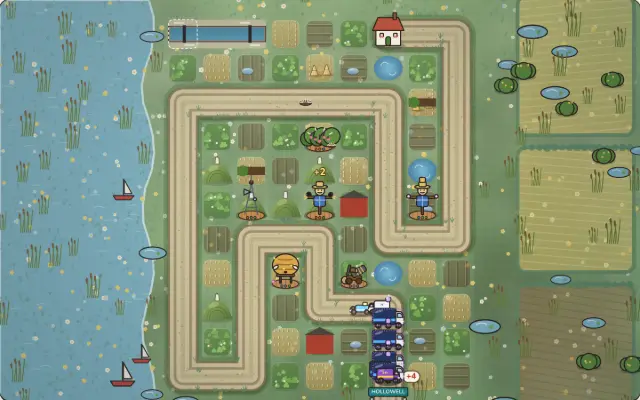
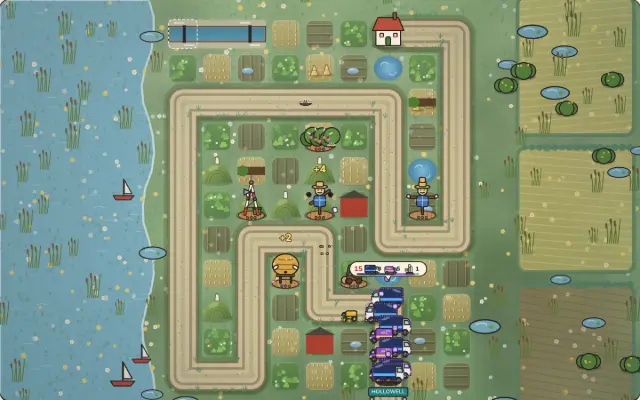
Hedgerow (plan item 163, done): the whole tower rack painted
Windmill, Radio Mast and Grain Silo gain colour on the field and in every
icon; tower icons shrink about their ground point to sit whole; desktop rack
names 13 px; an unaffordable card keeps a desaturated portrait and a red
price. e2e-site/hedgerow-rack.spec.ts; key art re-shot.

Claude-Session: https://claude.ai/code/session_01SimvMQd5hX7KYBZS7Ydo6o

diff --git a/games/hedgerow/src/sprites.ts b/games/hedgerow/src/sprites.ts
@@ -507,8 +507,20 @@ function drawTowerBody(ctx: C, look: TowerLook, x: number, y: number, s: number,
     }
     case "silo": {
       const w = spec === 1 ? 0.24 : 0.18;
-      const body = spec === 0 ? "#6f9a4a" : "#c7ccd1";
+      // Plan item 163: the plain silo is cream-painted with a terracotta dome and a red band (it was all grey).
+      const body = spec === 0 ? "#6f9a4a" : spec === 1 ? "#c7ccd1" : "#eadcb8";
       rr(ctx, x - s * w, base - s * 0.72, s * w * 2, s * 0.72, s * 0.04, body);
+      if (spec !== 0) {
+        rr(ctx, x - s * w, base - s * 0.6, s * w * 2, s * 0.1, 0, "#c2553a");
+        ctx.fillStyle = "#f6efe0";
+        ctx.beginPath();
+        ctx.moveTo(x, base - s * 0.59);
+        ctx.lineTo(x + s * 0.04, base - s * 0.55);
+        ctx.lineTo(x, base - s * 0.51);
+        ctx.lineTo(x - s * 0.04, base - s * 0.55);
+        ctx.closePath();
+        ctx.fill();
+      }
       ctx.strokeStyle = "rgba(0,0,0,0.18)";
       for (let i = 1; i < 5; i++) {
         ctx.beginPath();
@@ -517,7 +529,7 @@ function drawTowerBody(ctx: C, look: TowerLook, x: number, y: number, s: number,
         ctx.stroke();
       }
       ctx.strokeStyle = INK;
-      ctx.fillStyle = spec === 0 ? "#557a36" : "#9ea6ad";
+      ctx.fillStyle = spec === 0 ? "#557a36" : "#b84a33";
       ctx.beginPath();
       ctx.arc(x, base - s * 0.72, s * w, Math.PI, 0);
       ctx.closePath();
@@ -528,7 +540,7 @@ function drawTowerBody(ctx: C, look: TowerLook, x: number, y: number, s: number,
       ctx.save();
       ctx.translate(x + s * w, base - s * 0.6);
       ctx.rotate(-0.6 - kick * 0.4);
-      rr(ctx, 0, -s * 0.03, s * 0.2, s * 0.06, s * 0.02, "#8a8f94");
+      rr(ctx, 0, -s * 0.03, s * 0.2, s * 0.06, s * 0.02, "#d9a441");
       ctx.restore();
       break;
     }
@@ -544,8 +556,19 @@ function drawTowerBody(ctx: C, look: TowerLook, x: number, y: number, s: number,
       ctx.closePath();
       ctx.fill();
       ctx.stroke();
-      rr(ctx, x - s * 0.05, base - s * 0.16, s * 0.1, s * 0.16, s * 0.03, "#6b4a2b");
-      ctx.fillStyle = "#5e3d22";
+      // Plan item 163: a brick footing, a blue window, a green door and a red cap (it read as a grey sketch).
+      ctx.fillStyle = "#b5654a";
+      ctx.beginPath();
+      ctx.moveTo(x - s * 0.2, base);
+      ctx.lineTo(x - s * 0.185, base - s * 0.12);
+      ctx.lineTo(x + s * 0.185, base - s * 0.12);
+      ctx.lineTo(x + s * 0.2, base);
+      ctx.closePath();
+      ctx.fill();
+      ctx.stroke();
+      rr(ctx, x - s * 0.05, base - s * 0.18, s * 0.1, s * 0.18, s * 0.03, "#4f7a3a");
+      rr(ctx, x - s * 0.04, base - s * (h * 0.62), s * 0.08, s * 0.09, s * 0.02, "#6b8fb5");
+      ctx.fillStyle = "#a8452f";
       ctx.beginPath();
       ctx.arc(x, base - s * h, s * 0.15, Math.PI, 0);
       ctx.closePath();
@@ -567,8 +590,15 @@ function drawTowerBody(ctx: C, look: TowerLook, x: number, y: number, s: number,
         ctx.save();
         ctx.translate(x, hubY);
         ctx.rotate(a);
-        ctx.fillStyle = spec === 0 ? "#f6efe0" : "rgba(246,239,224,0.8)";
+        ctx.fillStyle = spec === 0 ? "#f6efe0" : spec === 1 ? "rgba(246,239,224,0.8)" : "#ecd5a4";
         ctx.fillRect(s * 0.03, -s * 0.05, len, s * 0.1);
+        // The sail's wooden stock down its middle.
+        ctx.strokeStyle = "#7a4a2a";
+        ctx.beginPath();
+        ctx.moveTo(s * 0.03, 0);
+        ctx.lineTo(s * 0.03 + len, 0);
+        ctx.stroke();
+        ctx.strokeStyle = INK;
         ctx.strokeRect(s * 0.03, -s * 0.05, len, s * 0.1);
         ctx.restore();
       }
@@ -604,21 +634,46 @@ function drawTowerBody(ctx: C, look: TowerLook, x: number, y: number, s: number,
       break;
     }
     case "mast": {
-      ctx.strokeStyle = "#5a5e63";
-      ctx.lineWidth = Math.max(1.5, s * 0.03);
+      // Plan item 163: a red-and-white banded lattice mast over a green equipment hut (it was a grey line drawing).
+      rr(ctx, x + s * 0.06, base - s * 0.16, s * 0.2, s * 0.16, s * 0.02, "#5f8f3f");
+      rr(ctx, x + s * 0.04, base - s * 0.2, s * 0.24, s * 0.05, s * 0.02, "#3f6e33");
+      const legW = Math.max(2.2, s * 0.05);
+      for (let i = 0; i < 4; i++) {
+        const y0 = base - (i * s * 0.85) / 4;
+        const y1 = base - ((i + 1) * s * 0.85) / 4;
+        const w0 = s * 0.18 * (1 - i / 4);
+        const w1 = s * 0.18 * (1 - (i + 1) / 4);
+        ctx.strokeStyle = INK;
+        ctx.lineWidth = legW + lw(s) * 1.2;
+        ctx.beginPath();
+        ctx.moveTo(x - w0, y0);
+        ctx.lineTo(x - w1, y1);
+        ctx.moveTo(x + w0, y0);
+        ctx.lineTo(x + w1, y1);
+        ctx.stroke();
+        ctx.strokeStyle = i % 2 ? "#f6efe0" : "#c8452f";
+        ctx.lineWidth = legW;
+        ctx.stroke();
+      }
+      ctx.strokeStyle = INK;
+      ctx.lineWidth = Math.max(1, s * 0.02);
       ctx.beginPath();
-      ctx.moveTo(x - s * 0.18, base);
-      ctx.lineTo(x, base - s * 0.85);
-      ctx.lineTo(x + s * 0.18, base);
       for (let i = 1; i < 4; i++) {
         const yy = base - i * s * 0.2;
         const w = s * 0.18 * (1 - (i * 0.2) / 0.85);
         ctx.moveTo(x - w, yy);
         ctx.lineTo(x + w, yy);
+        ctx.moveTo(x - w, yy);
+        ctx.lineTo(x + w * 0.75, yy - s * 0.2);
       }
       ctx.stroke();
-      ctx.strokeStyle = INK;
       ctx.lineWidth = lw(s);
+      // A dish on the mast.
+      ctx.fillStyle = "#f6efe0";
+      ctx.beginPath();
+      ctx.ellipse(x - s * 0.1, base - s * 0.55, s * 0.04, s * 0.08, -0.2, 0, Math.PI * 2);
+      ctx.fill();
+      ctx.stroke();
       const blink = Math.sin(t * 4) > 0;
       const lamp = spec === 1 ? (Math.sin(t * 8) > 0 ? "#ff3b30" : "#ffb3ad") : blink ? "#d95f3b" : "#7a2f1f";
       blob(ctx, x, base - s * 0.88, s * 0.05, lamp);

diff --git a/games/hedgerow/src/icons.ts b/games/hedgerow/src/icons.ts
@@ -28,8 +28,52 @@ export function towerIcon(kind: TowerKind, tier = 1, spec: 0 | 1 | null = null, 
   return render(`t:${kind}:${tier}:${spec}:${path?.join("") ?? ""}`, 64, (ctx, size) => {
     // A higher tier stands taller on its plinth (plan item 19): shrink the cell so it still fits the icon.
     const s = (size * 0.95) / (TIER_SCALE[towerTier({ tier, ...(path ? { path } : {}) }) - 1] ?? 1);
-    drawTower(ctx, { kind, tier, spec, fired: 9, dazed: false, ...(path ? { path } : {}) }, size / 2, size * 0.5, s, 0.6);
+    const look = { kind, tier, spec, fired: 9, dazed: false, still: true, ...(path ? { path } : {}) };
+    fitted(ctx, size, size / 2, size * 0.5 + s * 0.3, (c, ox, oy) => drawTower(c, look, ox + size / 2, oy + size * 0.5, s, 0.6));
   });
+}
+
+/**
+ * Plan item 163: tall towers (the Windmill's sails, the Radio Mast, the Grain Silo) drew past the icon's top edge
+ * and lost their heads. The picture is drawn on a sheet with room all round, measured, and shrunk about its
+ * ground point (never enlarged) until its solid parts (faint radio rings left out) sit inside the icon.
+ */
+function fitted(ctx: CanvasRenderingContext2D, size: number, gx: number, gy: number, draw: (c: CanvasRenderingContext2D, ox: number, oy: number) => void): void {
+  const dpr = 2;
+  const pad = size;
+  const sheet = document.createElement("canvas");
+  sheet.width = sheet.height = (size + pad * 2) * dpr;
+  const sc = sheet.getContext("2d", { willReadFrequently: true });
+  if (!sc) {
+    draw(ctx, 0, 0);
+    return;
+  }
+  sc.scale(dpr, dpr);
+  draw(sc, pad, pad);
+  const W = sheet.width;
+  const px = sc.getImageData(0, 0, W, W).data;
+  let x0 = W, y0 = W, x1 = -1, y1 = -1;
+  for (let y = 0; y < W; y++)
+    for (let x = 0; x < W; x++)
+      if (px[(y * W + x) * 4 + 3]! > 150) {
+        if (x < x0) x0 = x;
+        if (x > x1) x1 = x;
+        if (y < y0) y0 = y;
+        if (y > y1) y1 = y;
+      }
+  if (x1 < 0) return;
+  // Sheet px -> icon units, relative to the ground point.
+  const top = y0 / dpr - pad - gy;
+  const left = x0 / dpr - pad - gx;
+  const right = (x1 + 1) / dpr - pad - gx;
+  const bottom = (y1 + 1) / dpr - pad - gy;
+  const room = { top: gy - size * 0.02, left: gx - size * 0.03, right: size * 0.97 - gx, bottom: size * 0.99 - gy };
+  const k = Math.min(1, room.top / Math.max(1e-6, -top), room.left / Math.max(1e-6, -left), room.right / Math.max(1e-6, right), bottom > 0 ? room.bottom / bottom : 1);
+  ctx.save();
+  ctx.translate(gx, gy);
+  ctx.scale(k, k);
+  ctx.drawImage(sheet, -(pad + gx), -(pad + gy), size + pad * 2, size + pad * 2);
+  ctx.restore();
 }
 
 export function enemyIcon(kind: EnemyKind): string {

diff --git a/e2e-site/hedgerow-rack.spec.ts b/e2e-site/hedgerow-rack.spec.ts
@@ -1,0 +1,48 @@
+import { expect, test } from '@playwright/test'
+
+// Plan item 163: every tower in the build rack is a painted portrait (three of them were grey line sketches with
+// their tops cut off by the icon's edge), and the desktop rack's names read at 13 px.
+test('every rack portrait is painted and whole, names 13 px at D', async ({ page }) => {
+  await page.goto('/hedgerow/?2d&sandbox=1&level=21')
+  await page.waitForFunction(() => !!(window as unknown as { hedgerow?: { game(): unknown } }).hedgerow?.game(), null, { timeout: 30_000 })
+  await page.waitForTimeout(600)
+  const cards = await page.evaluate(async () => {
+    const out: { name: string; fills: number; topRow: number; font: number }[] = []
+    for (const b of document.querySelectorAll<HTMLElement>('.tray .tray-tower')) {
+      const im = b.querySelector('img')!
+      await im.decode()
+      const c = document.createElement('canvas')
+      c.width = im.naturalWidth
+      c.height = im.naturalHeight
+      const ctx = c.getContext('2d')!
+      ctx.drawImage(im, 0, 0)
+      const d = ctx.getImageData(0, 0, c.width, c.height).data
+      // Distinct coloured (not grey) fills, 4 bits a channel, among solid pixels, each 2% or more of the picture.
+      const bins = new Map<number, number>()
+      let solid = 0
+      let topRow = 0
+      for (let i = 0; i < d.length; i += 4) {
+        if (d[i + 3]! < 200) continue
+        solid++
+        if (i < c.width * 4) topRow++
+        const k = ((d[i]! >> 4) << 8) | ((d[i + 1]! >> 4) << 4) | (d[i + 2]! >> 4)
+        bins.set(k, (bins.get(k) ?? 0) + 1)
+      }
+      const fills = [...bins].filter(([k, n]) => {
+        const r = (k >> 8) * 17, g = ((k >> 4) & 15) * 17, bl = (k & 15) * 17
+        return n >= solid * 0.02 && Math.max(r, g, bl) - Math.min(r, g, bl) >= 48
+      }).length
+      const name = b.querySelector<HTMLElement>('.tray-name')
+      out.push({ name: name?.textContent ?? '', fills, topRow, font: name ? parseFloat(getComputedStyle(name).fontSize) : 0 })
+    }
+    return out
+  })
+  expect(cards.length).toBeGreaterThanOrEqual(9)
+  const desktop = (page.viewportSize()?.width ?? 0) >= 900
+  for (const c of cards) {
+    expect(c.fills, `${c.name}: coloured fills`).toBeGreaterThanOrEqual(2)
+    // Nothing solid on the icon's top row: the picture isn't cut at its top edge.
+    expect(c.topRow, `${c.name}: cut at the top`).toBe(0)
+    if (desktop) expect(c.font, `${c.name}: name size`).toBeGreaterThanOrEqual(13)
+  }
+})

diff --git a/games/hedgerow/src/ui/components.css b/games/hedgerow/src/ui/components.css
@@ -1485,11 +1485,13 @@ body:has(#dlg-pause[open]) .paused-note {
   background: var(--paper-shade);
   box-shadow: 0 0 0 1.5px var(--ink-3);
 }
+/* Plan item 163: one you can't afford keeps its painted portrait, desaturated, with its price in red. */
 .play .tray-tower:disabled img {
-  opacity: 0.55;
+  opacity: 0.8;
+  filter: grayscale(0.85);
 }
 .play .tray-tower:disabled .build-cost {
-  color: var(--ink-3);
+  color: color-mix(in srgb, var(--clay) 70%, var(--clay-ink));
 }
 .play .build-cost::before {
   width: 12px;
@@ -3957,6 +3959,7 @@ body:has(#dlg-pause[open]) .paused-note {
     padding: 3px 2px 4px;
     /* A long one-word name (Courthouse) on a four-to-a-row packet breaks onto the band's second line. */
     hyphens: auto;
+    font-size: var(--fs-rack);
     background: color-mix(in srgb, var(--band) 30%, var(--paper-hi));
     border-top: 2px solid color-mix(in srgb, var(--band) 75%, var(--ink));
   }

diff --git a/games/hedgerow/src/tokens.css b/games/hedgerow/src/tokens.css
@@ -175,6 +175,8 @@
   --fs-body: clamp(1rem, 0.97rem + 0.1vw, 1.0625rem);
   --fs-small: clamp(0.875rem, 0.85rem + 0.1vw, 0.9375rem);
   --fs-label: 0.75rem;
+  /* Plan item 163: the desktop build rack's tower names. */
+  --fs-rack: 0.8125rem;
   --fs-num-l: clamp(1.375rem, 1.3rem + 0.25vw, 1.5rem);
   --fs-num-xl: clamp(2.5rem, 1.9rem + 2vw, 3.5rem);
   --fs-btn: clamp(1.0625rem, 1.04rem + 0.1vw, 1.125rem);

diff --git a/docs/plan/two-week-plan.md b/docs/plan/two-week-plan.md
@@ -1929,7 +1929,7 @@ The items come from fresh-eyes audits on 2026-11-01 and 2026-11-02 (items 25-32:
 - **Accept:** her projected face 24 px or more at P and 40 at D (`hedgerow.faceBox()`), face mean luminance above the hair's; `data-cath-pose` changes on a leak in e2e; level tests unchanged; shots P and D.
 - **Size:** 2
 
-## 163. [ ] Hedgerow: the whole tower rack painted *(lane A, in progress)*
+## 163. [x] Hedgerow: the whole tower rack painted *(done 2026-11-05, lane A: the Windmill (brick footing, green door, blue window, red cap, canvas sails on wooden stocks), Radio Mast (red-and-white banded lattice, a dish, a green equipment hut) and Grain Silo (cream with a red band and terracotta dome, a yellow spout) are painted on the field and in every icon; `towerIcon` measures each picture and shrinks it about its ground point until it sits whole in the icon (the tall three lost their tops); desktop rack names 13 px (`--fs-rack`); an unaffordable card keeps its portrait, desaturated, with its price in red, light and dark; `e2e-site/hedgerow-rack.spec.ts` (2+ coloured fills per portrait, nothing cut at the top, 13 px names at D; fails on the old code); key art re-shot; shots `e2e/screenshots/rack163` (`scripts/hedgerow-rack-shots.mjs`). Cut: 'no price under the phone's scroll arrow' is the tray's scroll peek (item 146 checked it), and an upright phone now builds from item 156's ring)*
 - **Why:** `hedge-l21-2d-D` rack (1108-1412 x 85-365): Hedgerow, Beehive and Market Stall are in colour, but Windmill, Radio Mast and Grain Silo are grey line sketches with 99,999 coins in hand, so the rack reads as half-finished.
 - **Build:**
   - Every tower card gets a coloured, ink-outlined portrait at one scale with a ground shadow, matching the field's art.
